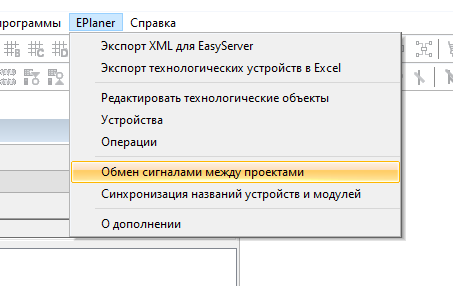
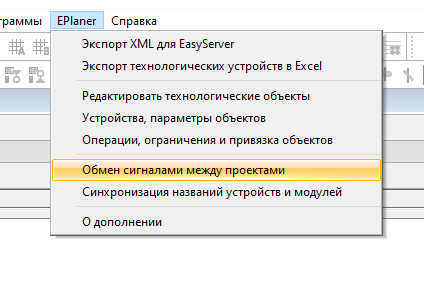
New Devices and Operation windows button labels (#661)

Changed region(s): [[0.0, 0.028, 1.0, 1.0]]

diff --git a/src/Main/AddInModule.cs b/src/Main/AddInModule.cs
@@ -39,11 +39,14 @@ namespace EasyEPlanner
                 "Редактирование технологических объектов", menuID, 1, 
                 false, false);
 
-            menuID = oMenu.AddMenuItem("Устройства", "ShowDevicesAction",
-                "Отображение устройств", menuID, int.MaxValue, false, false);
+            menuID = oMenu.AddMenuItem("Устройства, параметры объектов", 
+                "ShowDevicesAction", "Отображение устройств", menuID,
+                int.MaxValue, false, false);
 
-            menuID = oMenu.AddMenuItem("Операции", "ShowOperationsAction",
-                "Отображение операций", menuID, 1, false, true);
+            menuID = oMenu.AddMenuItem(
+                "Операции, ограничения и привязка объектов",
+                "ShowOperationsAction","Отображение операций", menuID, 1,
+                false, true);
 
             menuID = oMenu.AddMenuItem("Обмен сигналами между проектами",
                 "InterprojectExchangeAction",

diff --git a/docs/user_manual/ReadMe.md b/docs/user_manual/ReadMe.md
@@ -128,8 +128,8 @@
 1. Экспорт XML для EasyServer.
 2. Экспорт технологических устройств в Excel.
 2. Редактировать технологические объекты.
-3. Устройства.
-4. Операции.
+3. Устройства, параметры объектов.
+4. Операции, ограничения и привязка объектов.
 5. Синхронизация названий устройств и модулей.
 6. О дополнении.
 
@@ -1070,7 +1070,7 @@ F | **IO-Link** автоматический выключатель
 
 <p align="center"><b>Рисунок</b> - <i>Привязка групп танков</i></p>
 
-<p align="justify">Привязка агрегатов к аппаратам (<i>хотя, линии у нас относятся к агрегатам, но мы можем привязывать к ним другие агрегаты</i>) теперь выполняется не вручную, а может быть настроена также, как и ограничения (<i>окно "Операции" в режиме редактирования</i>). Пример настройки привязки объектов представлен ниже.</p>
+<p align="justify">Привязка агрегатов к аппаратам (<i>хотя, линии у нас относятся к агрегатам, но мы можем привязывать к ним другие агрегаты</i>) теперь выполняется не вручную, а может быть настроена также, как и ограничения (<i>окно "Операции, ограничения, привязка объектов" в режиме редактирования</i>). Пример настройки привязки объектов представлен ниже.</p>
 
 <p align="center"><img src="images/NewEditor/attachObjects.jpg"></p>
 
@@ -1088,13 +1088,13 @@ F | **IO-Link** автоматический выключатель
 
 <p align="center"><b>Рисунок</b> - <i>Выбор базовой операции</i></p>
 
-<p align="justify">В <code>Операции</code> добавлено ещё один раскрывающийся элемент <code>Дополнительные cвойства (<i>Доп. свойства</i>)</code>. В зависимости от выбранной операции, появляется разное количество полей, которое необходимо заполнить. Заполнять можно вручную или при помощи клика по добавляемому устройству на <b>ФСА</b>. Также доступно редактирование через окно "<b>Устройства</b>".</p>
+<p align="justify">В <code>Операции</code> добавлено ещё один раскрывающийся элемент <code>Дополнительные cвойства (<i>Доп. свойства</i>)</code>. В зависимости от выбранной операции, появляется разное количество полей, которое необходимо заполнить. Заполнять можно вручную или при помощи клика по добавляемому устройству на <b>ФСА</b>. Также доступно редактирование через окно "<b>Устройства, параметры объектов</b>".</p>
 
 <p align="center"><img src="images/base_operation_props_set_up_parameters.png"></p>
 
-<p align="center"><b>Рисунок</b> - <i>Настройка свойства через окно "Устройства"</i></p>
+<p align="center"><b>Рисунок</b> - <i>Настройка свойства через окно "Устройства, параметры объектов"</i></p>
 
-<p align="justify">В этом окне можно графическим образом (<i>поставить галочки</i>) отметить, какие устройств или параметры должны быть заданы в поле. Если окно "<b>Устройства</b>" пустое, то значит графическим образом добавлять данные не предусмотрено, либо это другие данные, которые таким способом добавлять нельзя.</p>
+<p align="justify">В этом окне можно графическим образом (<i>поставить галочки</i>) отметить, какие устройств или параметры должны быть заданы в поле. Если окно "<b>Устройства, параметры объектов</b>" пустое, то значит графическим образом добавлять данные не предусмотрено, либо это другие данные, которые таким способом добавлять нельзя.</p>
 
 <p align="center"><img src="images/extra_oper_params.png"></p>
 
@@ -1792,7 +1792,7 @@ F | **IO-Link** автоматический выключатель
 
 <p align="center"><b>Рисунок</b> - <i>Местонахождение ограничений</i></p>
 
-<p align="justify">Ограничения представляются парами вида {N, M}, где <b>N</b> – номер объекта, в котором проверяем на включенность операцию <b>M</b> Только надо учитывать, что N - глобальный номер объекта, который для пользователя недоступен (<em>осталось от старого редактора</em>). Ограничения проверяются перед включением операции, в которой прописываются пары. «Ограничения внутри объекта» предназначены для описания недоступных операций внутри объекта. К примеру, для операции «Наполнение» можем указать операцию «Сквашивание», нам не нужно проверять «Сквашивание» во всех других объектах. «Общие ограничения» описывают недоступные операции с другими объектами. В поле «Ограничения на последующие операции» указываются операции объекта, которые нельзя включить после текущей, например, после операции «Выдача» нельзя включить «Наполнение». Редактировать ограничения можно вручную или через окно со списком операций. Его можно вызвать из меню <b>"EasyEplanner" -> "Операции"</b> (<em>смотри пример в главе 1</em>). Если окно для редактирования технологических объектов находится в режиме редактирования, то при переходе на строку с ограничениями у узлов дерева с операциями появятся _CheckBox_ для выбора необходимых ограничений.</p>
+<p align="justify">Ограничения представляются парами вида {N, M}, где <b>N</b> – номер объекта, в котором проверяем на включенность операцию <b>M</b> Только надо учитывать, что N - глобальный номер объекта, который для пользователя недоступен (<em>осталось от старого редактора</em>). Ограничения проверяются перед включением операции, в которой прописываются пары. «Ограничения внутри объекта» предназначены для описания недоступных операций внутри объекта. К примеру, для операции «Наполнение» можем указать операцию «Сквашивание», нам не нужно проверять «Сквашивание» во всех других объектах. «Общие ограничения» описывают недоступные операции с другими объектами. В поле «Ограничения на последующие операции» указываются операции объекта, которые нельзя включить после текущей, например, после операции «Выдача» нельзя включить «Наполнение». Редактировать ограничения можно вручную или через окно со списком операций. Его можно вызвать из меню <b>"EasyEplanner" -> "Операции, ограничения, привязка объектов"</b> (<em>смотри пример в главе 1</em>). Если окно для редактирования технологических объектов находится в режиме редактирования, то при переходе на строку с ограничениями у узлов дерева с операциями появятся _CheckBox_ для выбора необходимых ограничений.</p>
 
 <p align="center"><img src="images/selected_restrictions.png"></p>
 
@@ -2131,7 +2131,7 @@ __Примечание:__
 + Описание модулей ввода-вывода (_привязка, цветовое обозначение_, номера клемм); 
 + Перечисление всех технологических устройств с типами и подтипами, а так же с параметрами при их наличии;
 + Сводная таблица всех устройств (_сколько и каких устройств установлено_);
-+ Подключение устройств (_текстовое описание, как в окне "Устройства"_);
++ Подключение устройств (_текстовое описание, как в окне "Устройства, параметры объектов"_);
 + Параметры объектов (_из редактора технологических объектов_);
 + Описание операций и устройств (_из редактора технологических объектов_).
 
